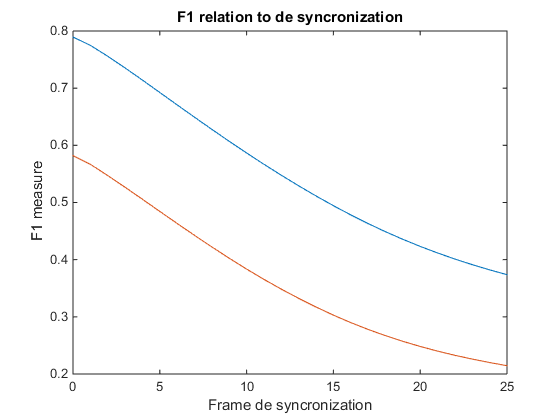
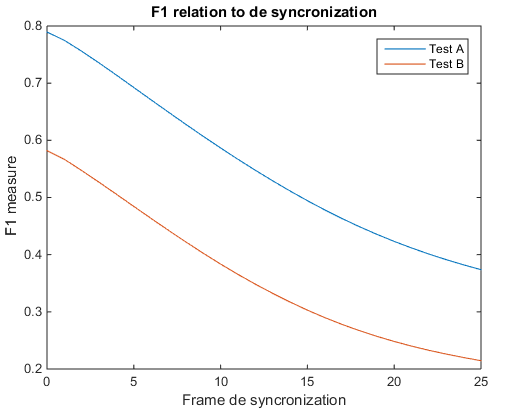
various
cambio en la funcion metrics para evitar NaN
task4 con funcion para graficar ambos tests frame by frame o progresivo
(F1 vs desfasaje)

diff --git a/Week1/task4.m b/Week1/task4.m
@@ -7,11 +7,9 @@ addpath('../week1');
 dirGT = '../datasets/cdvd/dataset/baseline/highway/groundtruth/';
 dirResults = '../datasets/cdvd/dataset/baseline/highway/results/';
 
-% dirGT = '../../highway/groundtruth/';
-% dirResults = '../../results/highway/';
-
 results_files = list_files(dirResults);
 files_number = size(results_files,1);
+vectsize = files_number/2;
 
 TP_A = 0;
 FP_A = 0;
@@ -23,18 +21,28 @@ FP_B = 0;
 FN_B = 0;
 TN_B = 0;
 
-TPAvect=zeros(1,files_number/2);
-FPAvect=zeros(1,files_number/2);
-FNAvect=zeros(1,files_number/2);
-TNAvect=zeros(1,files_number/2);
+% TPAvect=zeros(1,vectsize);
+% FPAvect=zeros(size(TPAvect));
+% FNAvect=zeros(size(TPAvect));
+% TNAvect=zeros(size(TPAvect));
+% 
+% TPBvect=zeros(size(TPAvect));
+% FPBvect=zeros(size(TPAvect));
+% FNBvect=zeros(size(TPAvect));
+% TNBvect=zeros(size(TPAvect));
 
-% For F1 vs De Sync
-% desync= 0:25;
+%For F1 vs De Sync
+desync= 0:25;
 
-desync = [0 5 10 25];
-% precision_A = zeros(size(desync,2),files_number/2);
-% recall_A = zeros(size(desync,2),files_number/2);
-% F1_A = zeros(size(desync,2),files_number/2);
+% %For frame by frame comparisson
+% desync = [0 5 10 25];
+% precision_A = zeros(size(desync,2),vectsize);
+% recall_A = zeros(size(desync,2),vectsize);
+% F1_A = zeros(size(desync,2),vectsize);
+% 
+% precision_B = zeros(size(desync,2),vectsize);
+% recall_B = zeros(size(desync,2),vectsize);
+% F1_B = zeros(size(desync,2),vectsize);
 
 motion = 170;
 tic
@@ -51,11 +59,11 @@ for n=1:size(desync,2)
             gt_A = gt_A >= motion; %binarize gt mask
             [TP, TN, FP, FN] = get_metrics (gt_A, test_A);
             
-            %metrics vectors for plotting F1 vs De Sync
-            TPAvect(i) = TP;
-            FPAvect(i) = FP;
-            FNAvect(i) = FN;
-            TNAvect(i) = TN;
+%             %metrics vectors for plotting F1 vs De Sync
+%             TPAvect(i) = TP;
+%             FPAvect(i) = FP;
+%             FNAvect(i) = FN;
+%             TNAvect(i) = TN;
             
             TP_A = TP_A + TP;
             FP_A = FP_A + FP;
@@ -66,6 +74,13 @@ for n=1:size(desync,2)
             test_B = imread(strcat(dirResults,'test_B_',file_number_desync,'.png')); % Read the GT image
             gt_B = gt_B >= motion; %binarize gt mask
             [TP, TN, FP, FN] = get_metrics (gt_B, test_B);
+            
+%             %metrics vectors for plotting F1 vs De Sync
+%             TPBvect(i-200) = TP;
+%             FPBvect(i-200) = FP;
+%             FNBvect(i-200) = FN;
+%             TNBvect(i-200) = TN;
+%             
             TP_B = TP_B + TP;
             FP_B = FP_B + FP;
             FN_B = FN_B + FN;
@@ -74,31 +89,43 @@ for n=1:size(desync,2)
         
     end
 
-    %get the metrics for frame by frame F1
-    [precision_A(n,:),recall_A(n,:), F1_A(n,:)] = evaluation_metrics(TPAvect,TNAvect,FPAvect,FNAvect);   
+%     %get the metrics for frame by frame F1
+%     [precision_A(n,:),recall_A(n,:), F1_A(n,:)] = evaluation_metrics(TPAvect,TNAvect,FPAvect,FNAvect);   
+%     [precision_B(n,:),recall_B(n,:), F1_B(n,:)] = evaluation_metrics(TPBvect,TNBvect,FPBvect,FNBvect);
 
-%     %For plotting total F1 vs De Sync
-%     [precision_A(n),recall_A(n), F1_A(n)] = evaluation_metrics(TP_A,TN_A,FP_A,FN_A);
-%     [precision_B(n),recall_B(n), F1_B(n)] = evaluation_metrics(TP_B,TN_B,FP_B,FN_B);
+    %For plotting total F1 vs De Sync
+    [precision_A(n),recall_A(n), F1_A(n)] = evaluation_metrics(TP_A,TN_A,FP_A,FN_A);
+    [precision_B(n),recall_B(n), F1_B(n)] = evaluation_metrics(TP_B,TN_B,FP_B,FN_B);
     
 end
   
 time = toc
 
-figure
-plot(transpose(F1_A(:,1:175)));
-title('Forward de-syncronized results')
-xlabel('Frame')
-ylabel('F1 measure')
-legend('No delay',...
-    strcat('Delay of ', int2str(desync(2)),' frames'),...
-    strcat('Delay of ', int2str(desync(3)),' frames'),...
-    strcat('Delay of ', int2str(desync(4)),' frames'));
-
-% %For plotting F1 vs De Sync
-% plot(desync, F1_A,desync ,F1_B);
-% title('F1 relation to de syncronization')
-% xlabel('Frame de syncronization')
+% figure(1)
+% plot(transpose(F1_A(:,1:175)));
+% title('Forward de-syncronized results for A test')
+% xlabel('Frame')
 % ylabel('F1 measure')
+% legend('No delay',...
+%     strcat('Delay of ', int2str(desync(2)),' frames'),...
+%     strcat('Delay of ', int2str(desync(3)),' frames'),...
+%     strcat('Delay of ', int2str(desync(4)),' frames'));
+% 
+% figure(2)
+% plot(transpose(F1_B(:,1:175)));
+% title('Forward de-syncronized results for B test')
+% xlabel('Frame')
+% ylabel('F1 measure')
+% legend('No delay',...
+%     strcat('Delay of ', int2str(desync(2)),' frames'),...
+%     strcat('Delay of ', int2str(desync(3)),' frames'),...
+%     strcat('Delay of ', int2str(desync(4)),' frames'));
+
+%For plotting F1 vs De Sync
+plot(desync, F1_A,desync ,F1_B);
+title('F1 relation to de syncronization')
+xlabel('Frame de syncronization')
+ylabel('F1 measure')
+legend('Test A','Test B')
 
 
